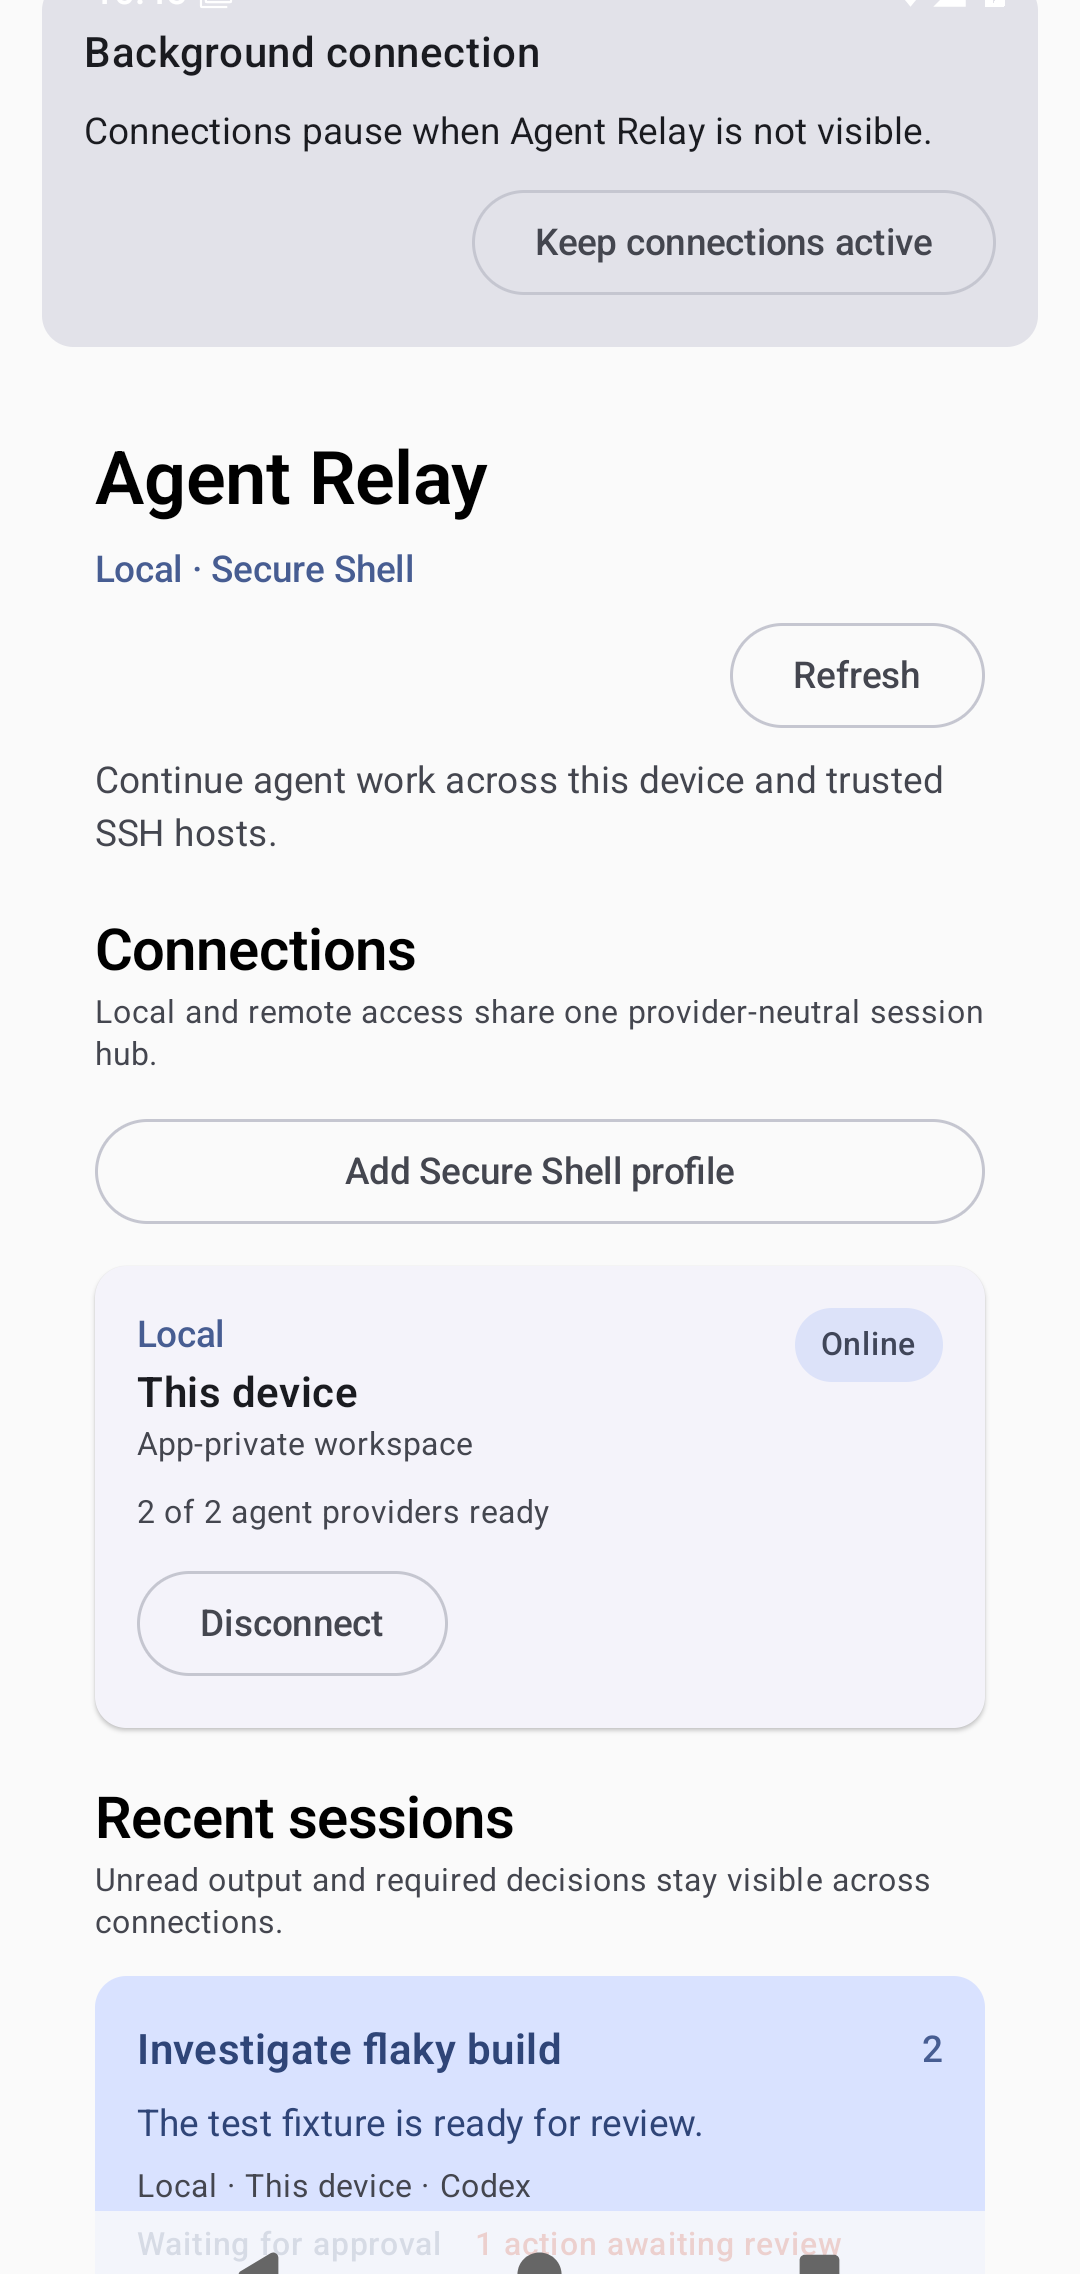
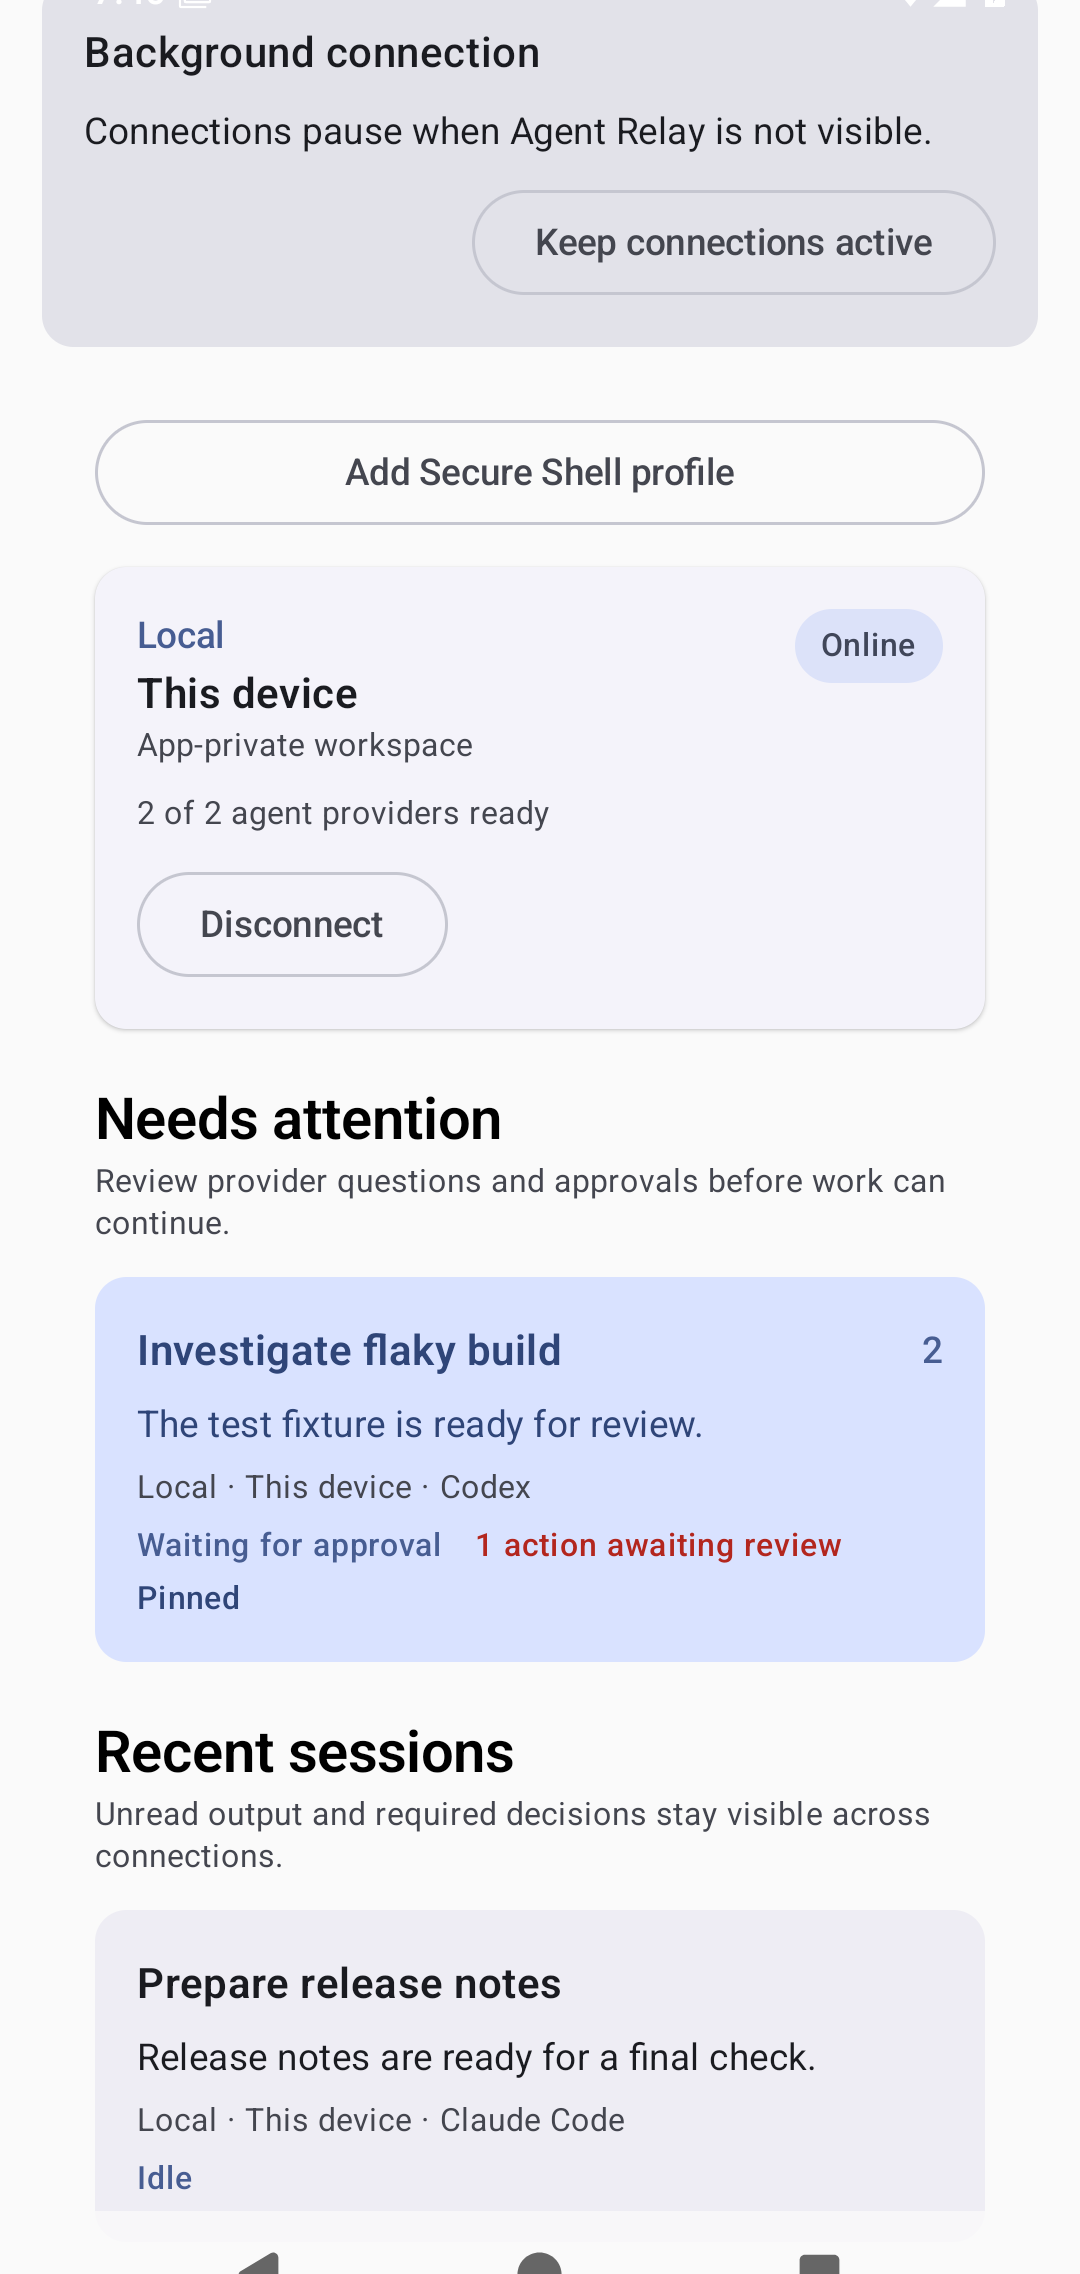
feat(app): add attention-first work surfaces

diff --git a/app/src/main/java/com/example/agentrelay/ui/main/SessionHubList.kt b/app/src/main/java/com/example/agentrelay/ui/main/SessionHubList.kt
@@ -36,6 +36,13 @@ internal fun SessionHubList(
     onSelectSession: (String) -> Unit,
     modifier: Modifier = Modifier,
 ) {
+    val surfaceBuckets = attentionSurfaceBuckets(hub.sessions)
+    val attentionTitle = stringResource(R.string.session_hub_attention_title)
+    val attentionSubtitle = stringResource(R.string.session_hub_attention_subtitle)
+    val changedTitle = stringResource(R.string.session_detail_changed_files)
+    val surfaceSubtitle = stringResource(R.string.session_hub_recent_sessions_subtitle)
+    val runningTitle = stringResource(R.string.session_state_running)
+    val recentTitle = stringResource(R.string.session_hub_recent_sessions_title)
     LazyColumn(
         modifier = modifier,
         contentPadding = PaddingValues(20.dp),
@@ -119,27 +126,94 @@ internal fun SessionHubList(
             }
         }
         sessionLaunchers(hub.sessionLaunchers, actions.openSessionCreator)
+        sessionSurfaces(
+            sessions = hub.sessions,
+            buckets = surfaceBuckets,
+            selectedSessionKey = hub.selectedSessionKey,
+            attentionTitle = attentionTitle,
+            attentionSubtitle = attentionSubtitle,
+            changedTitle = changedTitle,
+            surfaceSubtitle = surfaceSubtitle,
+            runningTitle = runningTitle,
+            recentTitle = recentTitle,
+            onSelectSession = onSelectSession,
+        )
+    }
+}
+
+private fun LazyListScope.sessionSurfaces(
+    sessions: List<SessionUiModel>,
+    buckets: AttentionSurfaceBuckets,
+    selectedSessionKey: String?,
+    attentionTitle: String,
+    attentionSubtitle: String,
+    changedTitle: String,
+    surfaceSubtitle: String,
+    runningTitle: String,
+    recentTitle: String,
+    onSelectSession: (String) -> Unit,
+) {
+    if (sessions.isEmpty()) {
         item(key = "sessions-heading") {
-            SectionHeading(
-                title = stringResource(R.string.session_hub_recent_sessions_title),
-                subtitle = stringResource(R.string.session_hub_recent_sessions_subtitle),
-            )
+            SectionHeading(title = recentTitle, subtitle = surfaceSubtitle)
         }
-        if (hub.sessions.isEmpty()) {
-            item(key = "sessions-empty") {
-                EmptyCard(
-                    stringResource(R.string.session_hub_sessions_empty),
-                )
-            }
-        } else {
-            items(hub.sessions, key = SessionUiModel::stableKey) { session ->
-                SessionCard(
-                    session = session,
-                    selected = session.stableKey == hub.selectedSessionKey,
-                    onClick = { onSelectSession(session.stableKey) },
-                )
-            }
+        item(key = "sessions-empty") {
+            EmptyCard(stringResource(R.string.session_hub_sessions_empty))
         }
+        return
+    }
+    sessionSurfaceSection(
+        key = "sessions-attention",
+        title = attentionTitle,
+        subtitle = attentionSubtitle,
+        sessions = buckets.needsAttention,
+        selectedSessionKey = selectedSessionKey,
+        onSelectSession = onSelectSession,
+    )
+    sessionSurfaceSection(
+        key = "sessions-changed",
+        title = changedTitle,
+        subtitle = surfaceSubtitle,
+        sessions = buckets.changed,
+        selectedSessionKey = selectedSessionKey,
+        onSelectSession = onSelectSession,
+    )
+    sessionSurfaceSection(
+        key = "sessions-running",
+        title = runningTitle,
+        subtitle = surfaceSubtitle,
+        sessions = buckets.running,
+        selectedSessionKey = selectedSessionKey,
+        onSelectSession = onSelectSession,
+    )
+    sessionSurfaceSection(
+        key = "sessions-recent",
+        title = recentTitle,
+        subtitle = surfaceSubtitle,
+        sessions = buckets.recentlyCompleted,
+        selectedSessionKey = selectedSessionKey,
+        onSelectSession = onSelectSession,
+    )
+}
+
+private fun LazyListScope.sessionSurfaceSection(
+    key: String,
+    title: String,
+    subtitle: String,
+    sessions: List<SessionUiModel>,
+    selectedSessionKey: String?,
+    onSelectSession: (String) -> Unit,
+) {
+    if (sessions.isEmpty()) return
+    item(key = "$key-heading") {
+        SectionHeading(title = title, subtitle = subtitle)
+    }
+    items(sessions, key = SessionUiModel::stableKey) { session ->
+        SessionCard(
+            session = session,
+            selected = session.stableKey == selectedSessionKey,
+            onClick = { onSelectSession(session.stableKey) },
+        )
     }
 }
 

diff --git a/app/src/test/java/com/example/agentrelay/ui/main/AttentionSurfaceBucketsTest.kt b/app/src/test/java/com/example/agentrelay/ui/main/AttentionSurfaceBucketsTest.kt
@@ -1,0 +1,59 @@
+package com.example.agentrelay.ui.main
+
+import dev.agentrelay.provider.api.AgentSessionState
+import org.junit.Assert.assertEquals
+import org.junit.Test
+
+class AttentionSurfaceBucketsTest {
+    @Test
+    fun `prioritizes attention then running then changed then recent`() {
+        val sessions = listOf(
+            session("attention", AgentSessionState.IDLE, unread = 2, required = 1),
+            session("waiting", AgentSessionState.WAITING_FOR_APPROVAL),
+            session("running", AgentSessionState.RUNNING, unread = 4),
+            session("changed", AgentSessionState.IDLE, unread = 1),
+            session("recent", AgentSessionState.IDLE),
+        )
+
+        val buckets = attentionSurfaceBuckets(sessions)
+
+        assertEquals(listOf("attention", "waiting"), buckets.needsAttention.map { it.preview })
+        assertEquals(listOf("running"), buckets.running.map { it.preview })
+        assertEquals(listOf("changed"), buckets.changed.map { it.preview })
+        assertEquals(listOf("recent"), buckets.recentlyCompleted.map { it.preview })
+    }
+
+    @Test
+    fun `bucket partition preserves order and every session exactly once`() {
+        val sessions = listOf(
+            session("one", AgentSessionState.RUNNING),
+            session("two", AgentSessionState.IDLE, unread = 1),
+            session("three", AgentSessionState.IDLE),
+        )
+        val buckets = attentionSurfaceBuckets(sessions)
+        val actual = buckets.needsAttention + buckets.changed + buckets.running + buckets.recentlyCompleted
+
+        assertEquals(sessions.map { it.preview }.toSet(), actual.map { it.preview }.toSet())
+        assertEquals(sessions.size, actual.size)
+    }
+
+    private fun session(
+        preview: String,
+        state: AgentSessionState,
+        unread: Int = 0,
+        required: Int = 0,
+    ) = SessionUiModel(
+        stableKey = preview,
+        title = UiMessage.Verbatim(preview),
+        preview = preview,
+        connectionLabel = "connection",
+        connectionProviderName = "provider",
+        agentProviderLabel = "agent",
+        projectPath = null,
+        agentState = state,
+        unreadCount = unread,
+        requiresActionCount = required,
+        lastActivityAtEpochMillis = null,
+        isPinned = false,
+    )
+}

diff --git a/app/src/main/java/com/example/agentrelay/ui/main/SessionHubUiModels.kt b/app/src/main/java/com/example/agentrelay/ui/main/SessionHubUiModels.kt
@@ -110,6 +110,39 @@ internal data class SessionUiModel(
     val isPinned: Boolean,
 )
 
+internal data class AttentionSurfaceBuckets(
+    val needsAttention: List<SessionUiModel>,
+    val changed: List<SessionUiModel>,
+    val running: List<SessionUiModel>,
+    val recentlyCompleted: List<SessionUiModel>,
+)
+
+internal fun attentionSurfaceBuckets(sessions: List<SessionUiModel>): AttentionSurfaceBuckets {
+    val buckets = sessions.groupBy { session ->
+        when {
+            session.requiresActionCount > 0 ||
+                session.agentState == AgentSessionState.WAITING_FOR_APPROVAL ->
+                AttentionSurfaceBucket.NEEDS_ATTENTION
+            session.agentState == AgentSessionState.RUNNING -> AttentionSurfaceBucket.RUNNING
+            session.unreadCount > 0 -> AttentionSurfaceBucket.CHANGED
+            else -> AttentionSurfaceBucket.RECENTLY_COMPLETED
+        }
+    }
+    return AttentionSurfaceBuckets(
+        needsAttention = buckets[AttentionSurfaceBucket.NEEDS_ATTENTION].orEmpty(),
+        changed = buckets[AttentionSurfaceBucket.CHANGED].orEmpty(),
+        running = buckets[AttentionSurfaceBucket.RUNNING].orEmpty(),
+        recentlyCompleted = buckets[AttentionSurfaceBucket.RECENTLY_COMPLETED].orEmpty(),
+    )
+}
+
+private enum class AttentionSurfaceBucket {
+    NEEDS_ATTENTION,
+    CHANGED,
+    RUNNING,
+    RECENTLY_COMPLETED,
+}
+
 internal data class SessionLauncherUiModel(
     val stableKey: String,
     val connectionLabel: String,
